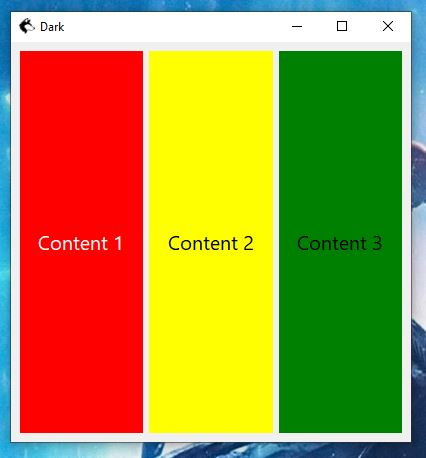
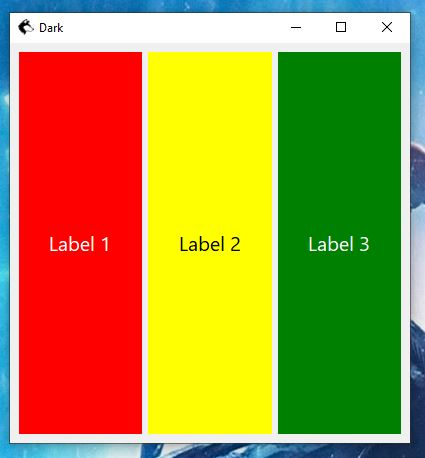
readme

diff --git a/packages/platform-desktop/README.md b/packages/platform-desktop/README.md
@@ -173,6 +173,7 @@ const style = useStyle(styled => ({
     QLabel {
       font-size: 20px;
       qproperty-alignment: 'AlignCenter';
+      color: white;
     }
     #box {
       flex-direction: 'column';
@@ -180,11 +181,11 @@ const style = useStyle(styled => ({
     #text-1 {
       flex: 1;
       background-color: red;
-      color: white;
     }
     #text-2 {
       flex: 1;
       background-color: yellow;
+      color: black;
     }
     #text-3 {
       flex: 2;
